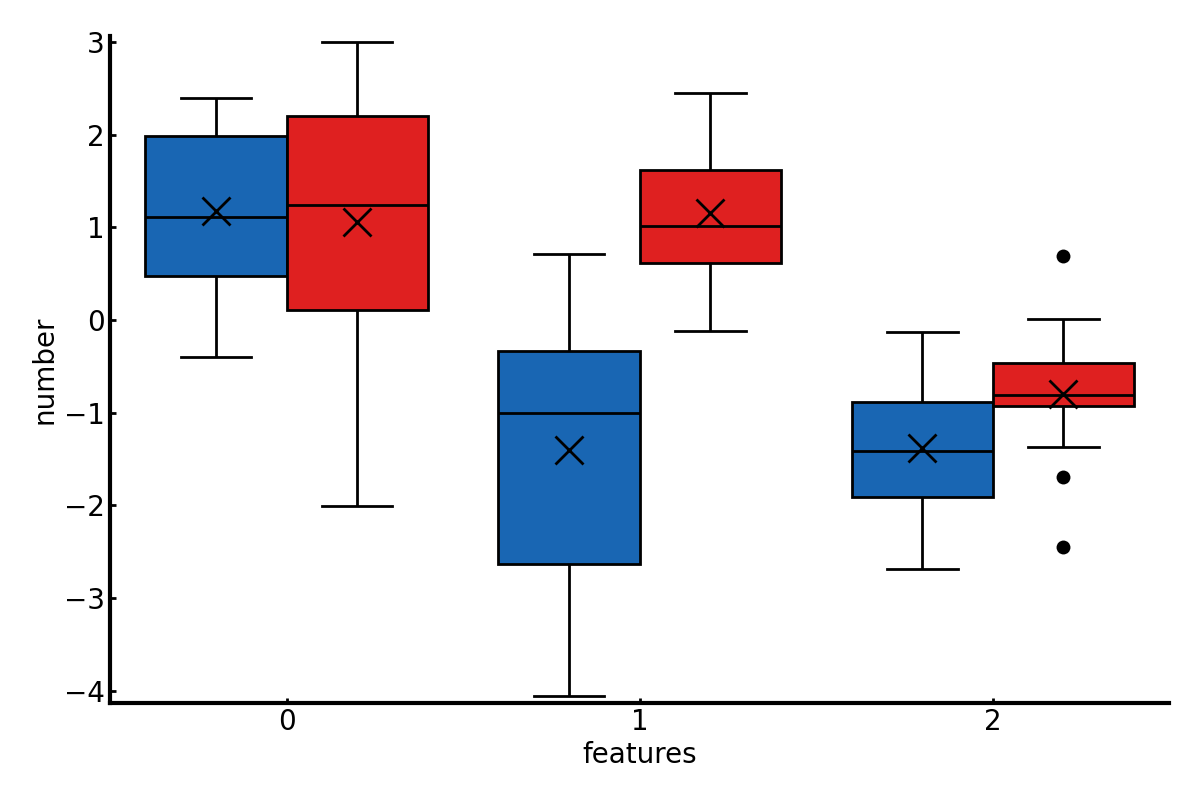
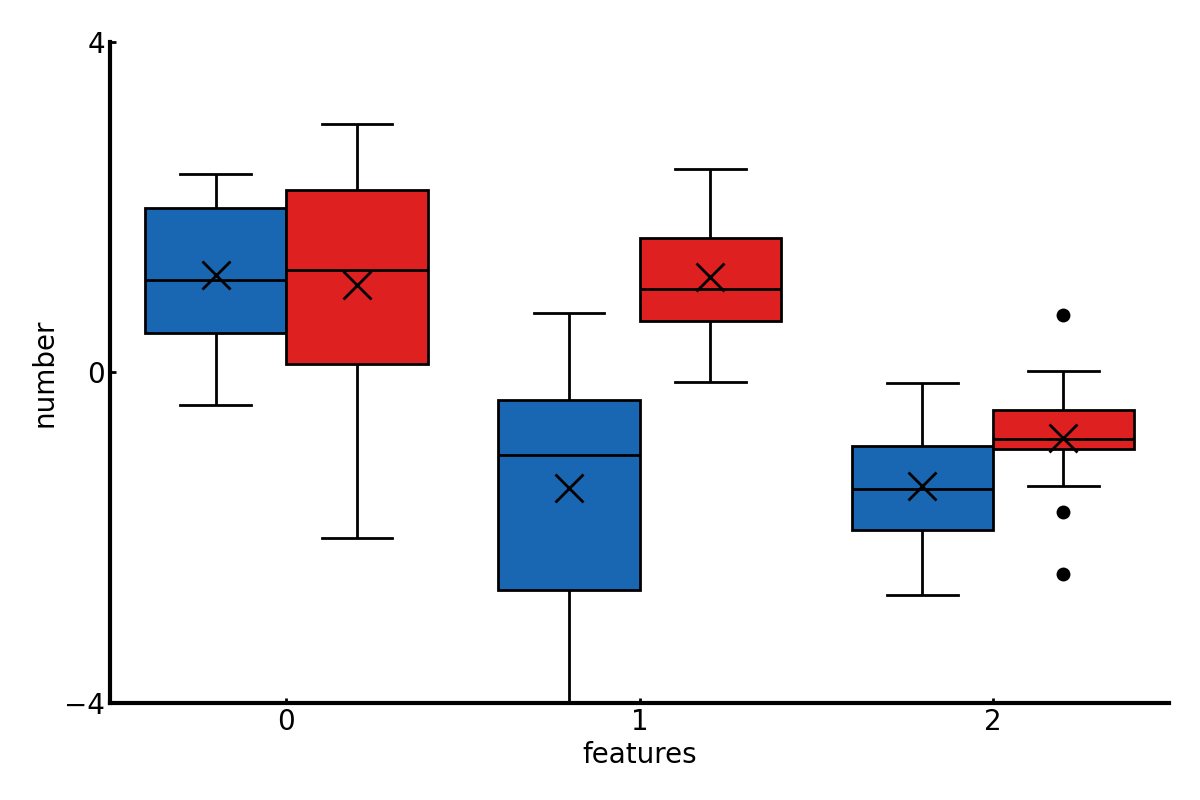
add figs

diff --git a/test.py b/test.py
@@ -37,18 +37,9 @@ if __name__ == "__main__":
     df = pd.DataFrame(X)
     df["target"] = y
 
-    
-
     for name_color in ["BR", "BG", "KW", "C3", "C5", "pastel", "vivid"]:
         color = plot.get_color(name_color)
         df_ = plot.convert(df[df['target'].isin([i for i in range(len(color))])].copy(), 
                            x="features", y="number", hue="target")
-        plot.box(df_, f"pic/{name_color}", x="features", y="number", hue="target", color=color, stats=None)
-
-        print(f"### {name_color}")
-        print("~~~ Python")
-        print(f'plot.bar(df, "pic/{name_color}", color=color)')
-        print("~~~")
-        print(f'![{name_color}](pic/{name_color}.png "{name_color}")')
-
-
+        plot.box(df_, f"pic/{name_color}", x="features", y="number", 
+                 hue="target", yticks=[-4,0,4], color=color, stats=None)
